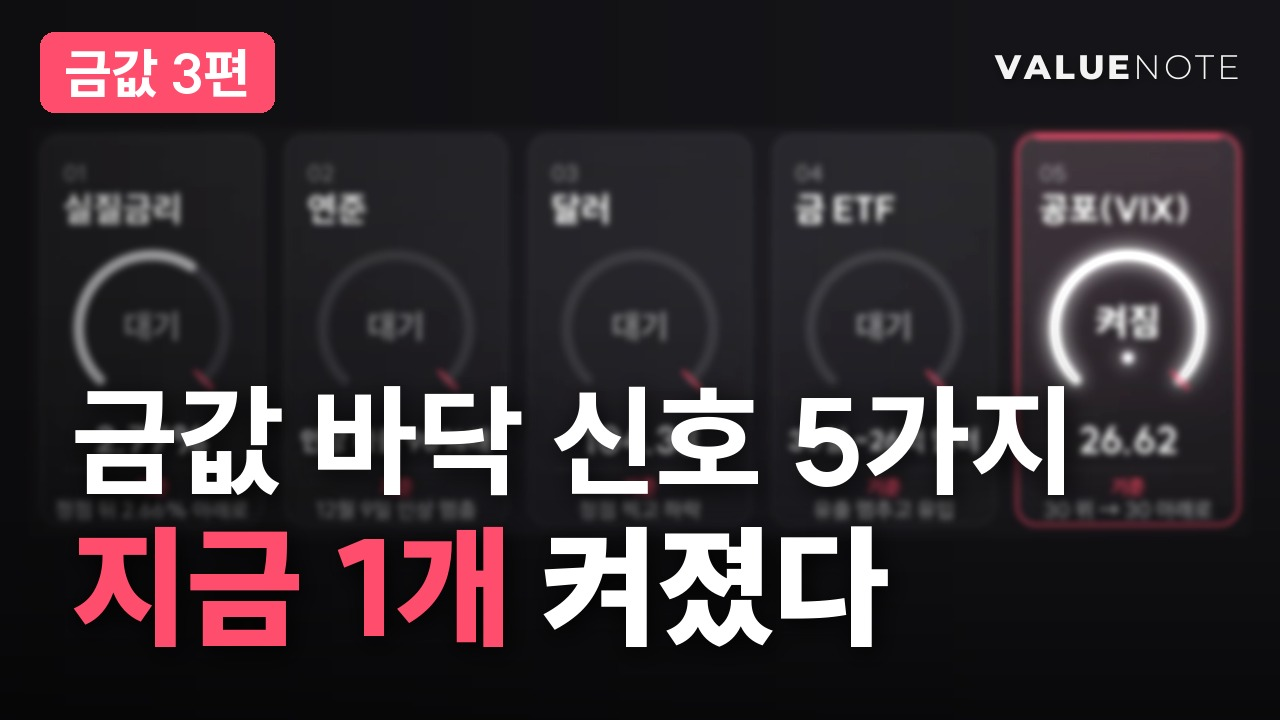
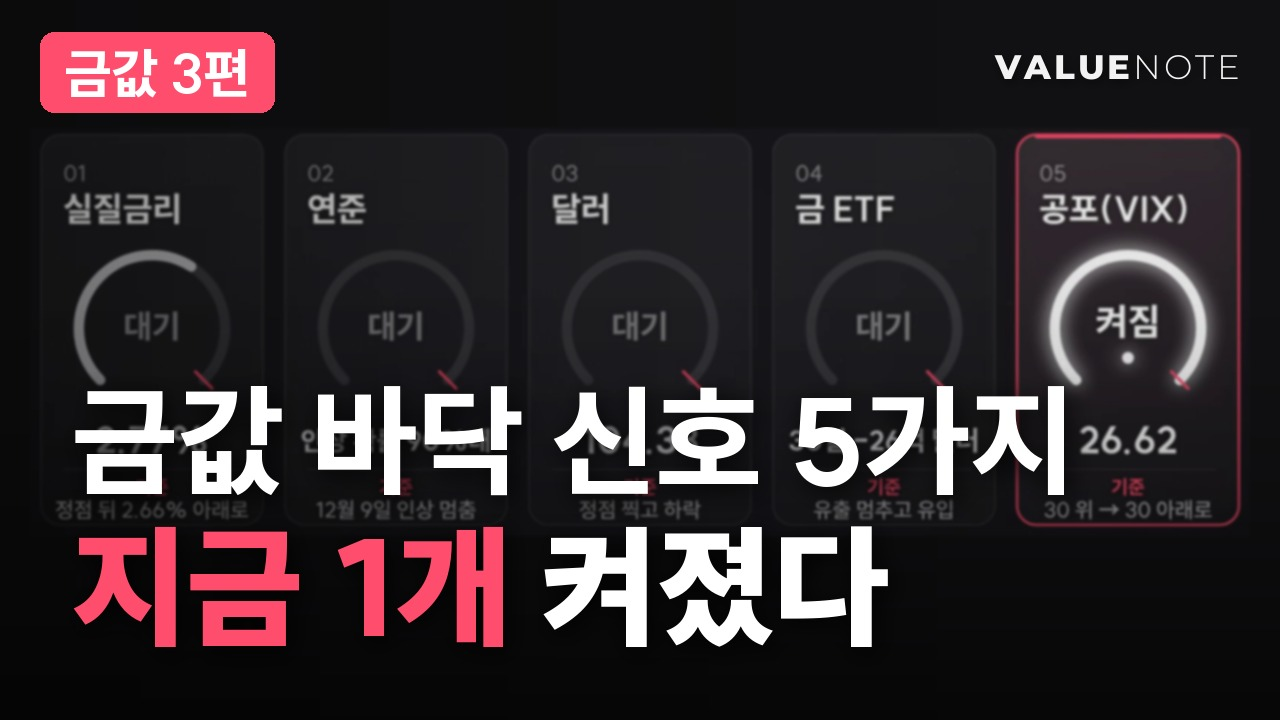
gold-3 썸네일: B '지금 사야 할까?', C 계기판 선명하게
Claude-Session: https://claude.ai/code/session_01KaYReGeNvFYwSy6KbuMUmu

diff --git a/scripts/youtube/long/drafts/L261124-gold-3_thumbs.py b/scripts/youtube/long/drafts/L261124-gold-3_thumbs.py
@@ -14,7 +14,7 @@ TW, TH = 1280, 720; PINK = vn2.PINK; WHITE = (255, 255, 255, 255)
 
 SETS = [   # 세 안 모두 '바닥 신호 5가지' 노출, 사진 3장 서로 다르게
     dict(file="thumb_a.jpg", photo="il_L261124g_thumb_goldbars.jpeg", fx=.55, l1="금값 바닥 신호 5가지", l2=("지금 1개 켜졌다", "")),
-    dict(file="thumb_b.jpg", photo="il_L261124g_goldvault_wide.jpeg", fx=.6, g2=True, chip="바닥 신호 5가지", l1=[("금값", "gold"), (" 1월보다 ", "w"), ("-37%", "pink")], l2=[("바닥 신호 ", "w"), ("1개", "pink"), (" 켜졌다", "w")]),   # 2026-11-24 17:45 대표: 한 안은 2편 썸네일(본 사람이 많음)과 비슷하게
+    dict(file="thumb_b.jpg", photo="il_L261124g_goldvault_wide.jpeg", fx=.6, g2=True, chip="바닥 신호 5가지", l1=[("금값", "gold"), (" 1월보다 ", "w"), ("-37%", "pink")], l2=[("지금 사야 할까?", "w")]),   # 2026-11-24 17:45 대표: 한 안은 2편 썸네일(본 사람이 많음)과 비슷하게
     dict(file="thumb_c.jpg", gauge="globe_L261124g_fx_gauge_final.mp4", l1="금값 바닥 신호 5가지", l2=("지금 1개", " 켜졌다")),   # 2026-11-24 17:44 대표: 한 안은 계기판 5개를 흐리게 깔고
 ]
 
@@ -49,7 +49,7 @@ def gauge_bg(name):
     cards = im.crop((135, 278, 1785, 830))   # 카드 5개만 (제목 줄·1/5 배지는 썸네일 배지·로고와 겹치므로 뺀다)
     w = TW - 60; cards = cards.resize((w, int(cards.height * w / cards.width)), Image.LANCZOS)
     bg = Image.new("RGB", (TW, TH), im.getpixel((40, 40))); bg.paste(cards, (30, 128))
-    bg = bg.filter(ImageFilter.GaussianBlur(3.2)); bg = ImageEnhance.Brightness(bg).enhance(1.15)
+    bg = bg.filter(ImageFilter.GaussianBlur(1.3)); bg = ImageEnhance.Brightness(bg).enhance(.9)   # 17:47 대표: 계기판 조금 더 선명하게, 명도는 낮춰도 됨
     return bg.convert("RGBA")
 
 
